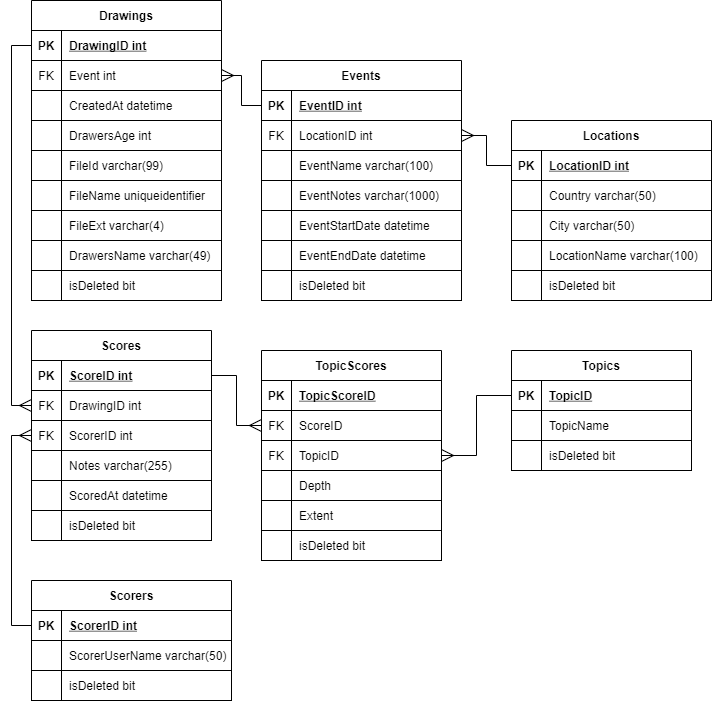
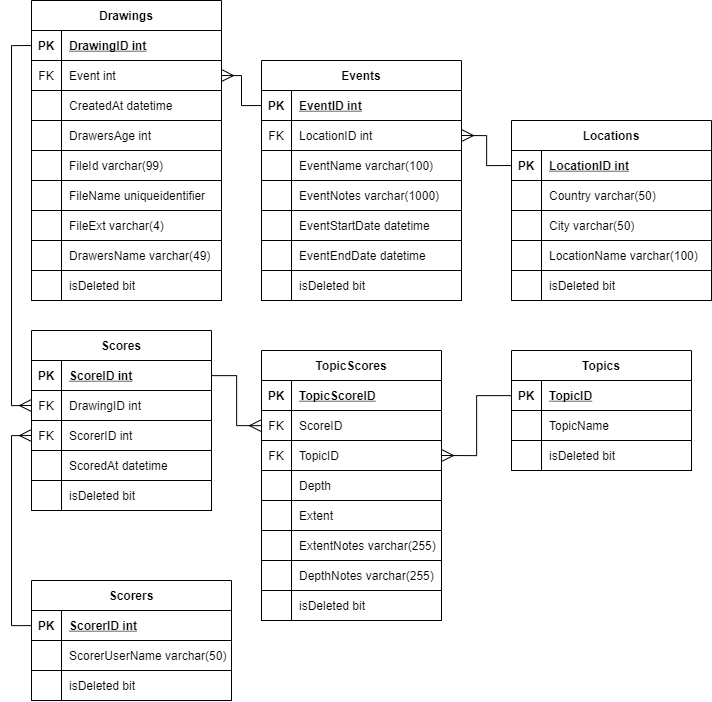
Remove notes from score & individual score notes to topic scores

diff --git a/Source Code/Admin/src/admin.types.ts b/Source Code/Admin/src/admin.types.ts
@@ -78,7 +78,6 @@ export type Score = {
 	breadth: number,
 	scoredBy: string,
 	scoredAt: string,
-	notes: string,
 	topicScores: TopicScore[]
 }
 
@@ -91,7 +90,6 @@ export type CreateTopicScore = {
 export type CreateScore = {
 	drawingId: number,
 	scorerId: number,
-	notes: string,
 	topicScores: CreateTopicScore[]
 }
 

diff --git a/Source Code/Admin/src/features/scoring/Scoring.tsx b/Source Code/Admin/src/features/scoring/Scoring.tsx
@@ -151,7 +151,6 @@ export default function Scoring() {
 		mutation.mutate({
 			scorerId: user?.id ?? -1,
 			drawingId: drawing?.id ?? -1,
-			notes: scores.notes,
 			topicScores: scores.topics.map((t) => ({ topicId: t.topic.id, extent: t.extent, depth: t.depth }))
 		}, {
 			onSuccess: () => {
